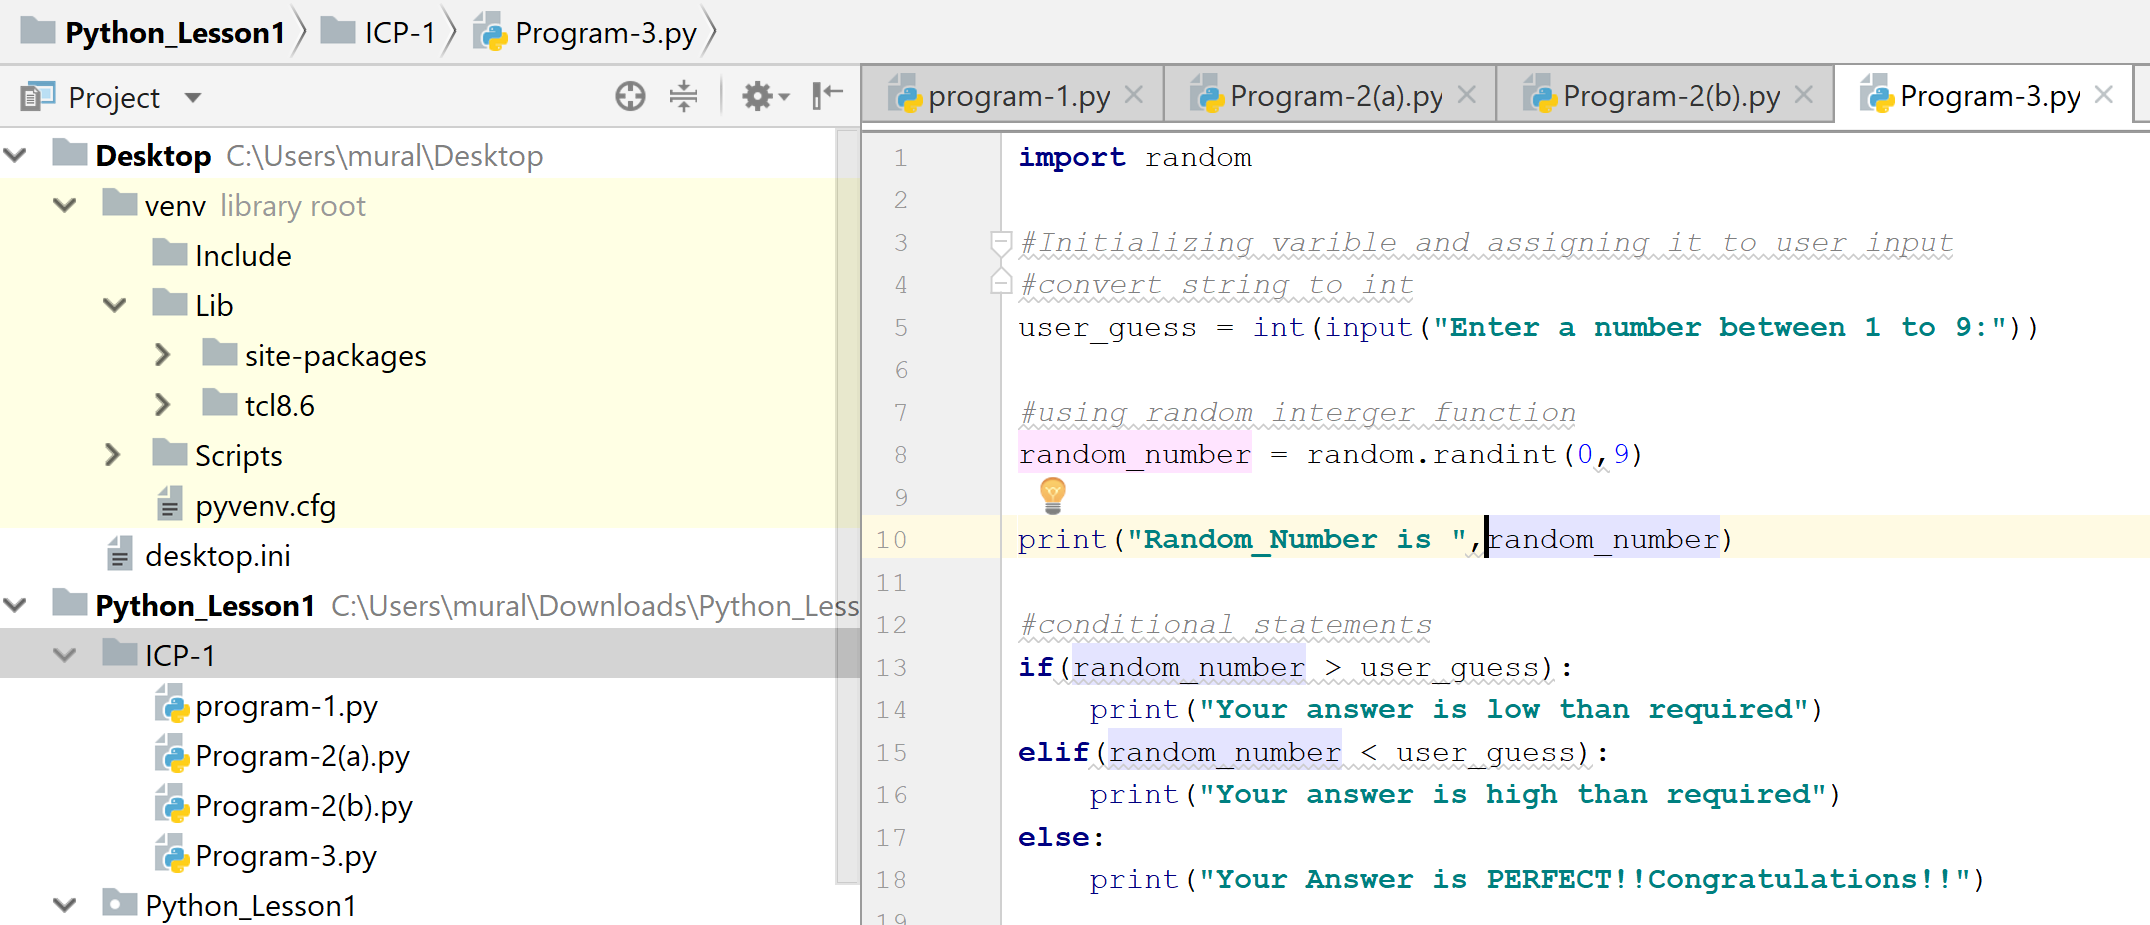
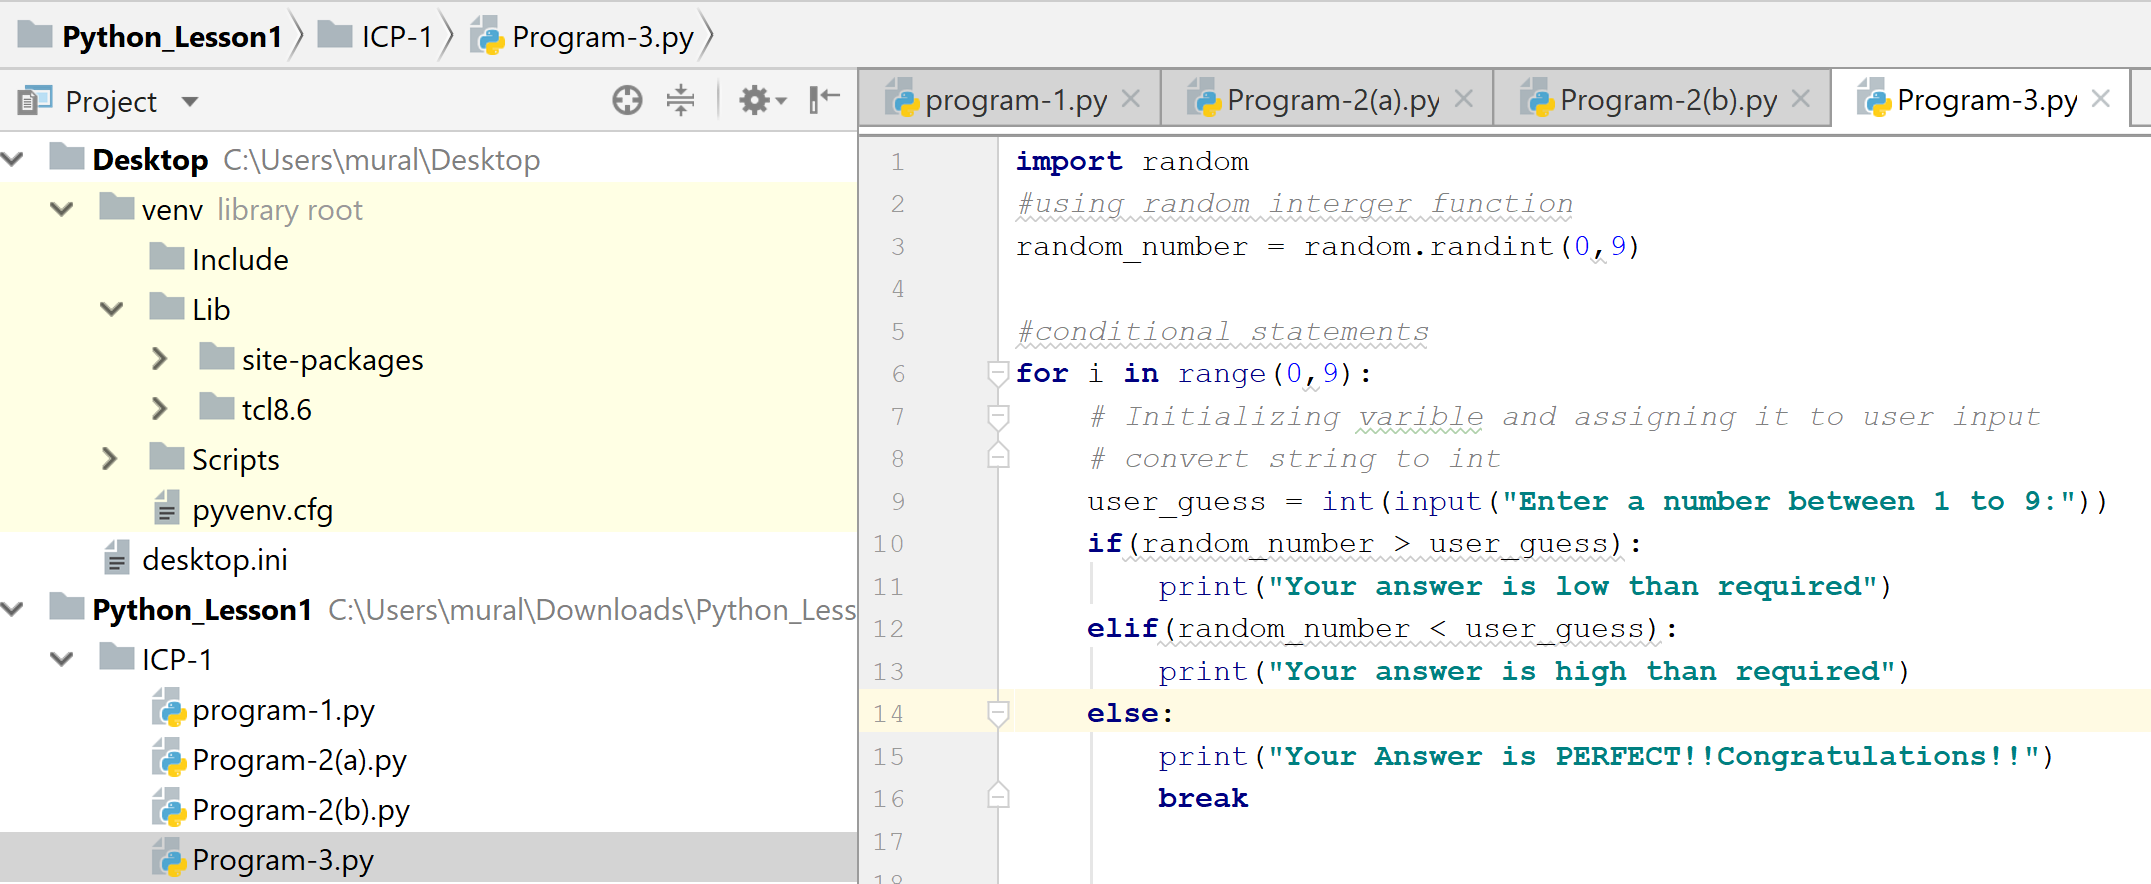
ICP-1

Changed region(s): [[0.0, 0.0, 1.0, 1.0], [0.4986, 0.9163, 0.9037, 0.9774], [0.8414, 0.4581, 0.9349, 0.4887]]

diff --git a/ICP-1/Source/ICP-1/Program-3.py b/ICP-1/Source/ICP-1/Program-3.py
@@ -1,21 +1,19 @@
 import random
-
-#Initializing varible and assigning it to user input
-#convert string to int
-user_guess = int(input("Enter a number between 1 to 9:"))
-
 #using random interger function
 random_number = random.randint(0,9)
 
-print("Random_Number is ",random_number)
-
 #conditional statements
-if(random_number > user_guess):
-    print("Your answer is low than required")
-elif(random_number < user_guess):
-    print("Your answer is high than required")
-else:
-    print("Your Answer is PERFECT!!Congratulations!!")
+for i in range(0,9):
+    # Initializing varible and assigning it to user input
+    # convert string to int
+    user_guess = int(input("Enter a number between 1 to 9:"))
+    if(random_number > user_guess):
+        print("Your answer is low than required")
+    elif(random_number < user_guess):
+        print("Your answer is high than required")
+    else:
+        print("Your Answer is PERFECT!!Congratulations!!")
+        break
 
 
 
